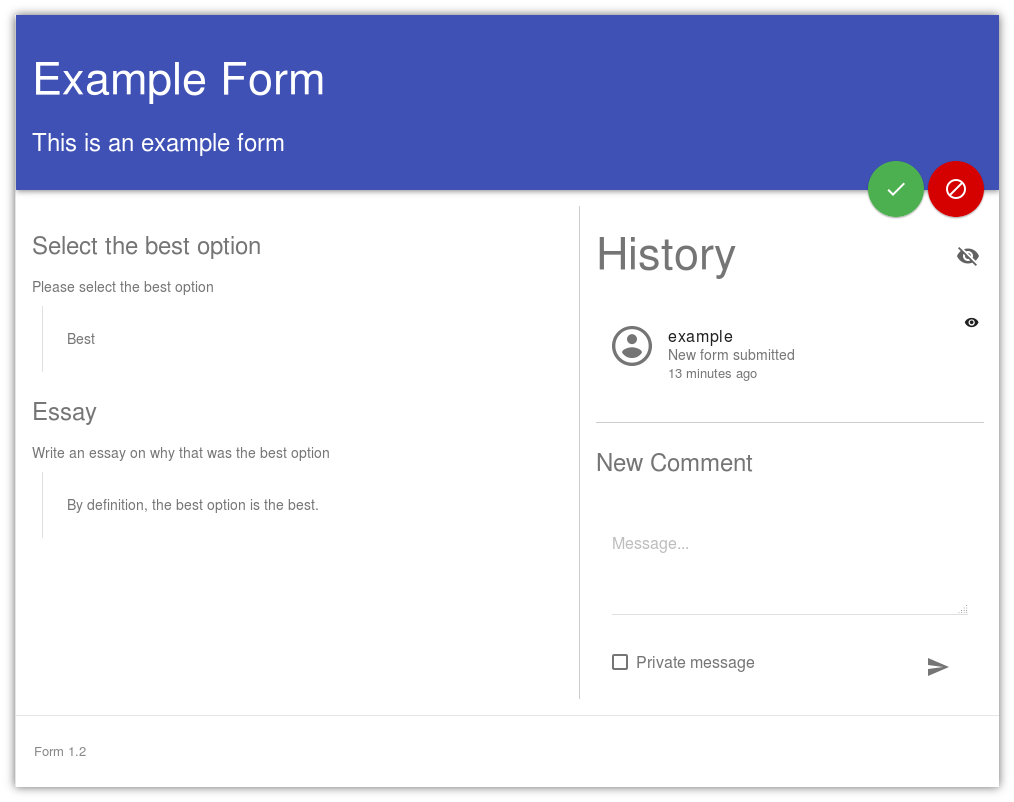
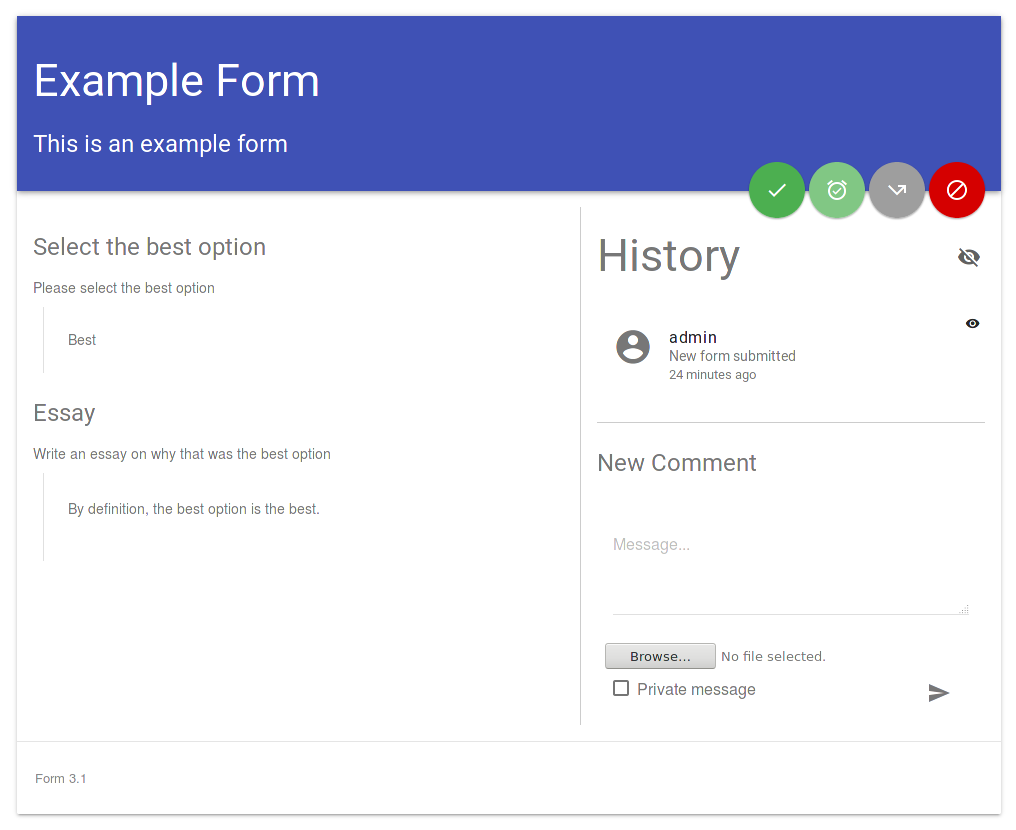
Update documentation for form review interface

diff --git a/docs/user/form-review.rst b/docs/user/form-review.rst
@@ -77,8 +77,16 @@ Form Status
    :scale: 75%
    :align: center
 
-The final component of the form review interface are the red and green
-buttons at the top right of the review interface.  These buttons will
-set the form's status to approved or disapproved.  Once set, the form
-will no longer have the 'pending' icon next to it and it will instead
-have a thumbs-up or a thumbs-down icon to denote its status.
+The final component of the review interface are the buttons in the
+upper right hand corner.  These buttons set various statuses for the
+form.  The green check mark approves the form, this is a final status
+that will be communicated back to the user.  The green alarm clock
+means 'tentative approval', this status does not change the ultimate
+status of the form, but it will write an entry to the log showing that
+on a particular date and time, the form received provisional approval.
+The gray bent arrow will 'bounce' the form back to the user that
+submitted it, allowing them to make changes.  This button is best used
+with comments in the log that make clear the changes that are being
+requested.  The final button is the red crossed circle which will mark
+the form as denied.  Denied is a final status that will be
+communicated back to the user that submitted the form.
